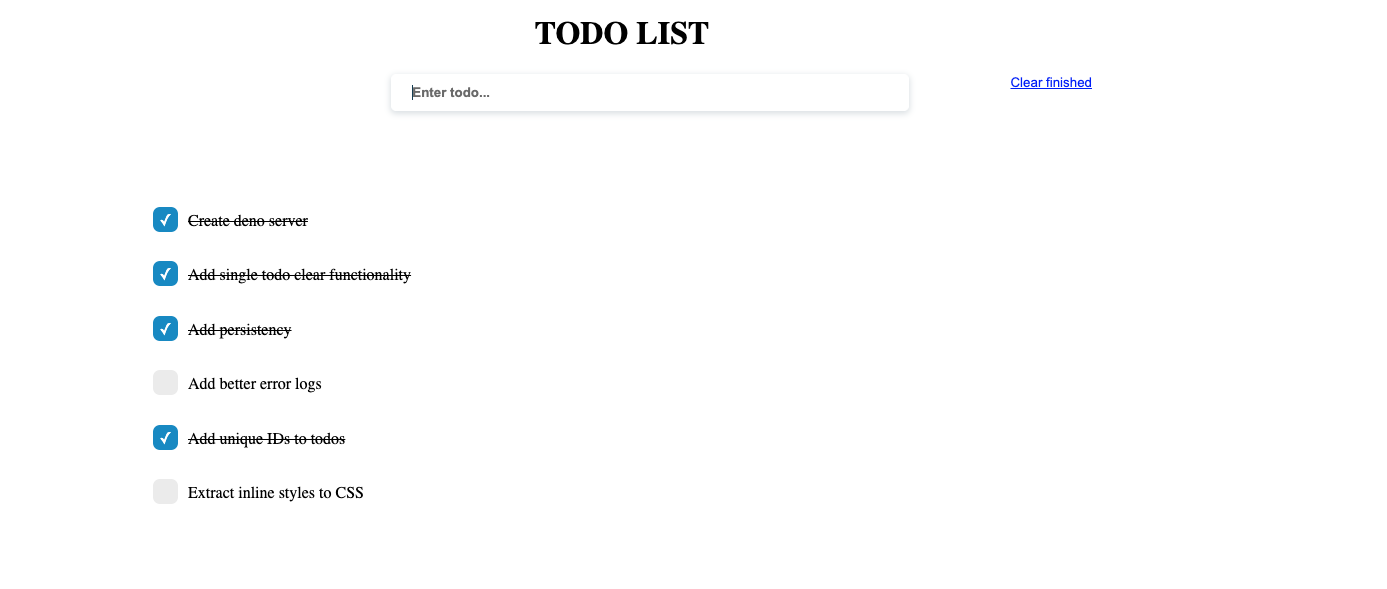
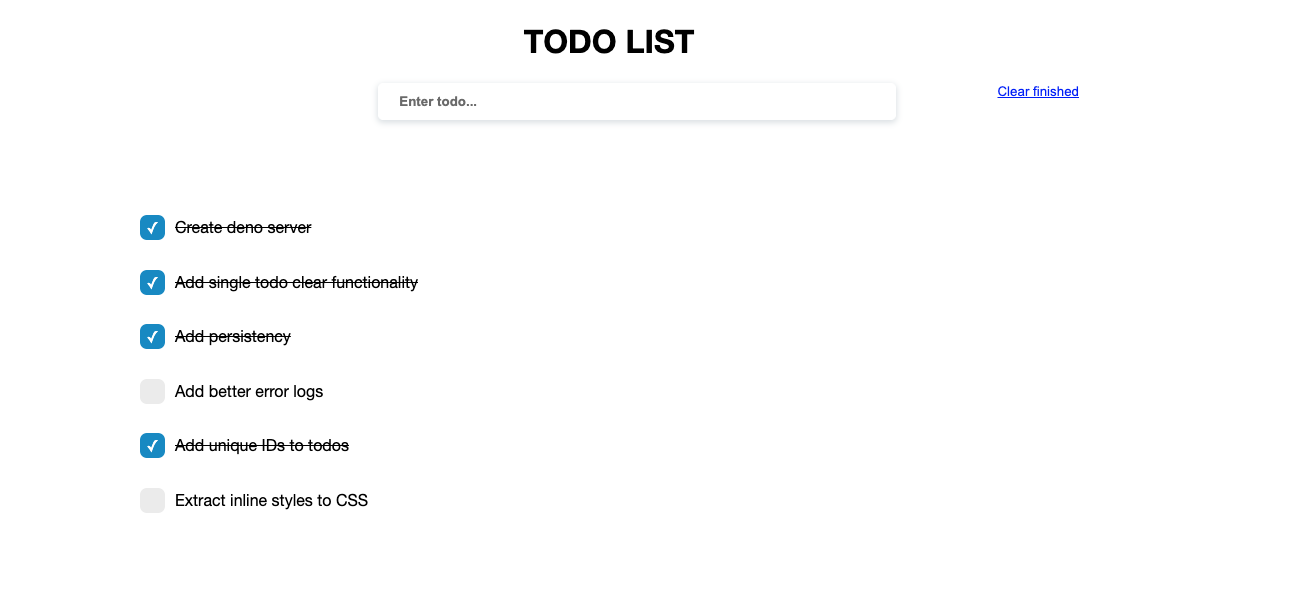
extracts searchbar, adds styling

diff --git a/client/dist/styles.css b/client/dist/styles.css
@@ -1,3 +1,12 @@
+body {
+  font-family: "Helvetica Neue"
+}
+
+.header {
+  text-transform: uppercase;
+  text-align: center;
+}
+
 .checkbox {
   opacity: 0;
   cursor: pointer;
@@ -5,10 +14,14 @@
   width: 0;
 }
 
-.checkbox-container {
+.todo-container {
   display: flex;
   margin-bottom: 3%;
   align-items: center;
+}
+
+.checkbox-container {
+  display: inline-flex;
 }
 
 .checkmark {
@@ -30,7 +43,7 @@
   display: none;
 }
 
-.checkbox-container .checkbox:checked + .checkmark:after {
+.todo-container .checkbox:checked + .checkmark:after {
   content: "\2713\0020";
   color: white;
   text-align: center;
@@ -38,7 +51,7 @@
   display: block;
 }
 
-.checkbox-container .checkbox:checked + .checkmark {
+.todo-container .checkbox:checked + .checkmark {
   background-color: #3b92cc;
 }
 
